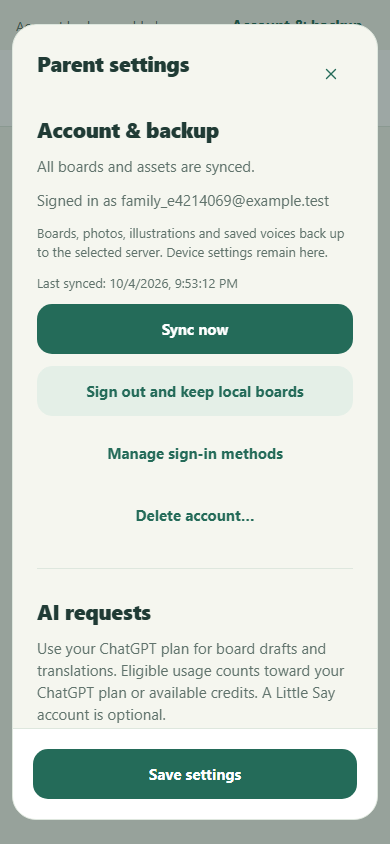
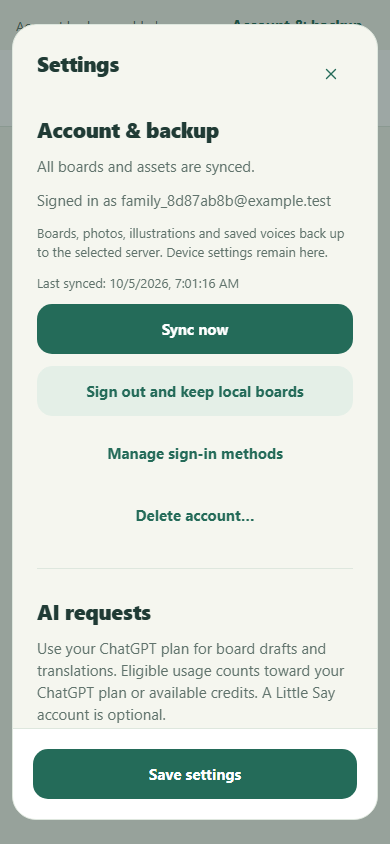
Record final Postgres Firebase validation and reviewer screenshots

diff --git a/docs/FIREBASE_POSTGRES_VALIDATION.md b/docs/FIREBASE_POSTGRES_VALIDATION.md
@@ -1,14 +1,14 @@
 # Firebase and Postgres validation
 
-Validated locally on Windows on 2026-10-04 using PostgreSQL 17, the Firebase Auth emulator, Chromium, Docker Compose, and the Pixel_10 Android emulator.
+Validated locally on Windows on 2026-10-04 using PostgreSQL 17, the Firebase Auth emulator, Chromium, Docker Compose, and the Pixel_10 Android emulator. Release metadata, types, unit tests, builds, integration tests, and browser checks were rerun on 2026-10-05 after combining the account and ChatGPT branch histories.
 
 ## Automated checks
 
 - Type checking, release metadata checks, unit tests, server/web builds, and Android bundle export pass.
 - 219 unit tests cover the existing application plus database configuration, secure credential persistence, unsupported native-module guards, secret scrubbing, cookie proxying, and deployment failure/rollback ordering.
 - 29 required integration tests run against real Postgres and Auth emulator services. These cover fresh/repeat migrations, account isolation, complete backups, restart persistence, competing revisions/quotas, deletion retries, resumable Apple confirmation, Firebase verification/reset/cookies/CSRF/revocation, provider linking/conflicts, and ChatGPT transaction/refresh/disconnect races. Missing services fail the suite.
-- The full 72-test Chromium suite passed. The final focused account run passed three tests, including an additional cross-tab identity/server-switching case (73 browser cases in total). Restore compares photo, illustration, and audio bytes and exercises offline conflict recovery and local-preserving sign-out.
-- CI supplies Postgres and runs the Auth emulator for integration and browser suites. The CI workflow itself has not been dispatched from this working tree.
+- The final full Chromium suite passed all 74 tests, including cross-tab identity/server switching and the inherited ChatGPT picture regression. Restore compares photo, illustration, and audio bytes and exercises offline conflict recovery and local-preserving sign-out.
+- CI supplies Postgres and runs the Auth emulator for integration and browser suites. This record describes local evidence; the PR check status reports CI results separately.
 
 ## Runtime checks
 

diff --git a/docs/screenshots/firebase-postgres/README.md b/docs/screenshots/firebase-postgres/README.md
@@ -1,6 +1,6 @@
 # Firebase and Postgres account evidence
 
-Captured on 2026-10-04 against PostgreSQL 17 and the Firebase Auth emulator. All identities shown are test fixtures.
+Browser captures were refreshed on 2026-10-05 from application commit `4fc31c7` against PostgreSQL 17 and the Firebase Auth emulator. The native capture is from the 2026-10-04 runtime validation, before the inherited Settings label change. All identities shown are test fixtures.
 
 - `create-tablet.png`: Chromium tablet account creation with email/password and optional backup consent.
 - `restored-phone.png`: Chromium phone library after restoring the account backup, including local media.
